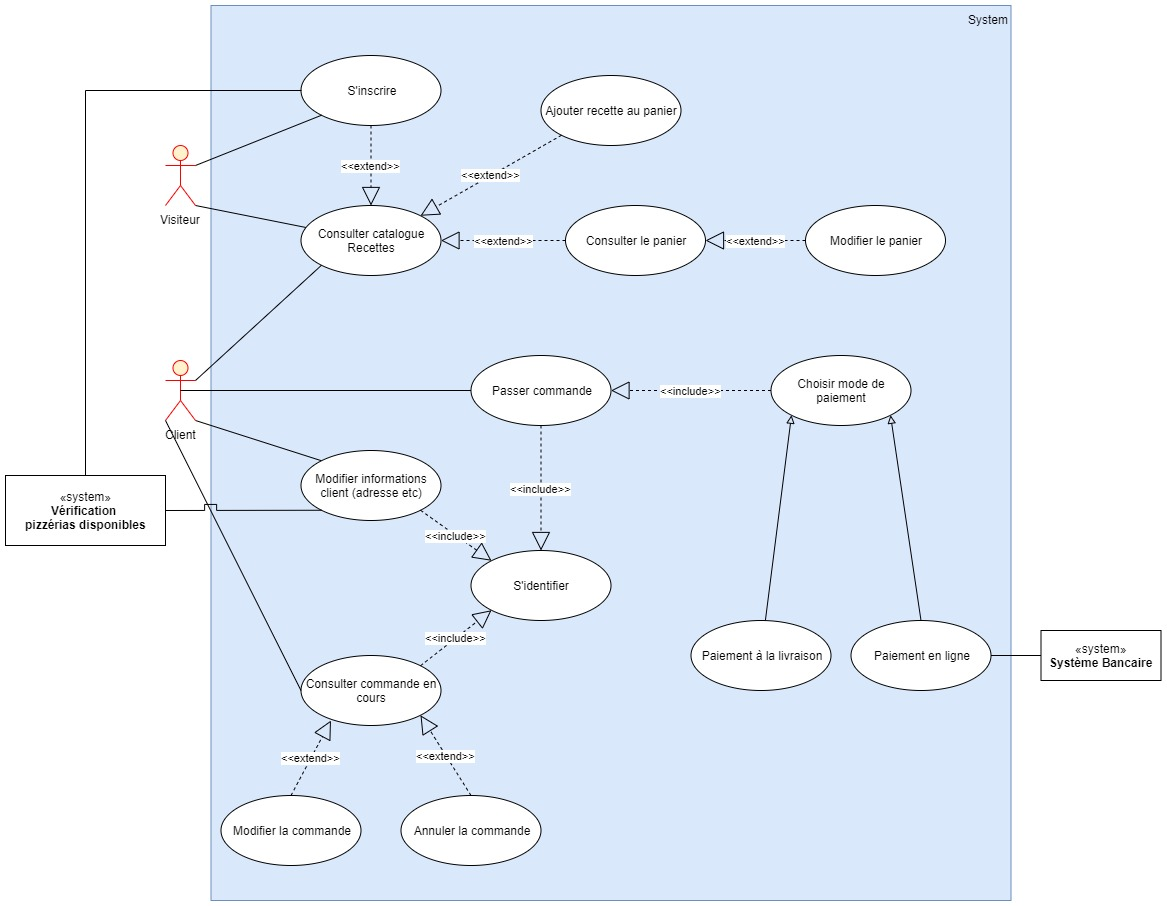
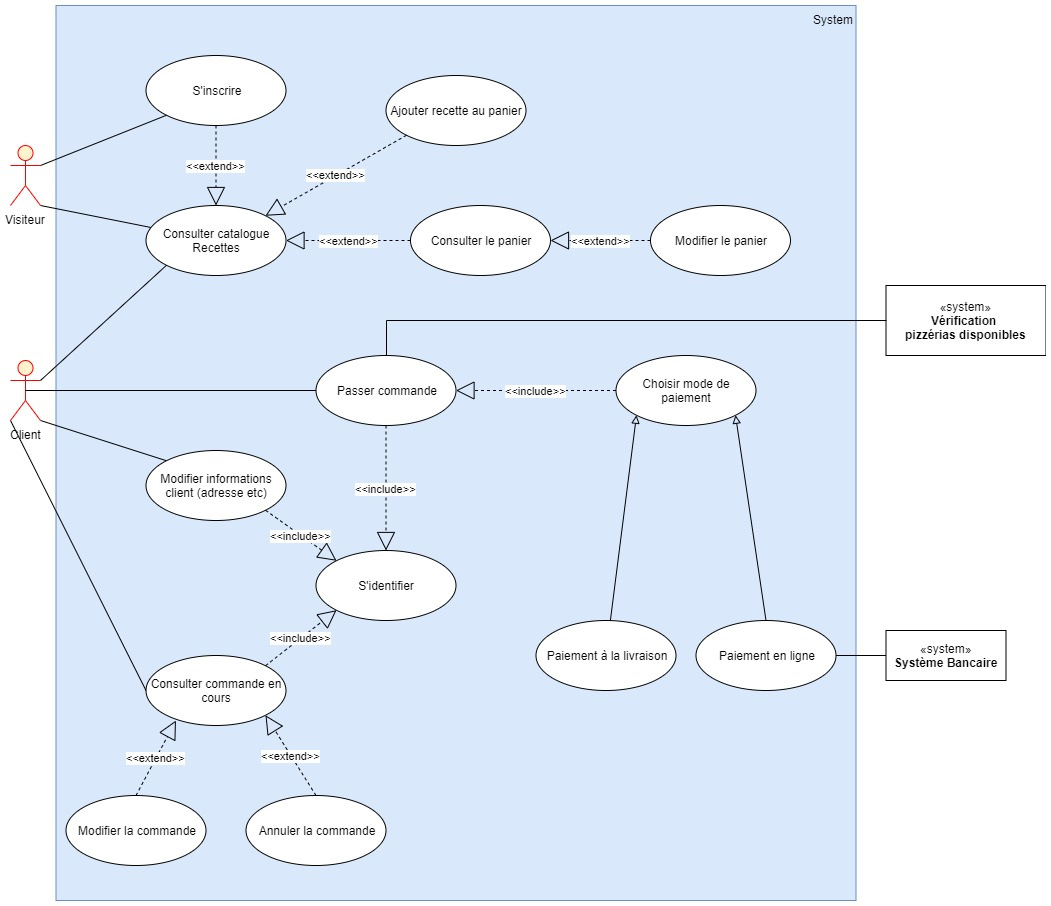
finalisation fiches, maj diagrammes

diff --git a/Diagrammes/Package Client/27_Verifier Adresse Livraison.md b/Diagrammes/Package Client/27_Verifier Adresse Livraison.md
@@ -1,0 +1,29 @@
+# Cas  n°27
+
+**Nom:** Vérifier l'adresse de livraison (package « Client »)<br>
+**Acteurs(s):** Système<br>
+**Description succincte:** Lors de l'entrée d'une adresse de livraison d'une commande par un client, le système doit valider la disponibilité d'une pizzéria à proximité afin de pouvoir effectuer une livraison<br>
+**Auteur:** A Gomes<br>
+**Date(s):** 01/01/2020 (première rédaction)<br>
+**Pré-conditions:** L'utilisateur a sélectionné "Livraison" lors d'une commande<br>
+**Démarrage:** L'utilisateur a entré une adresse de livraison<br>
+
+### **DESCRIPTION**
+
+**Le scénario nominal**<br>
+1. Le système récupère et vérifie l'existance de l'adresse entrée par l'utilisateur
+2. Le système vérifie la présence d'une pizzéria à proximité de l'adresse de livraison (selon une distance à définir)
+3. Le système retourne les informations de la pizzéria disponible à l'utilisateur
+
+**Les scénarios alternatifs**<br>
+En (2): Si il n'y a aucune pizzéria disponible, renvoit de l'information "Adresse indisponible à la livraison"
+
+**Scénario d'exception**<br>
+En (1): L'adresse de l'utilisateur est inexistente, le système renvoit un message à l'utilisateur pour le prévenir
+
+**Fin:** 
+- Scénario nominal: à l'étape 3, sur décision de l'utilisateur
+- Scénario alternatif: à l'étape 2, sur décision de l'utilisateur
+
+**Post-conditions:** 
+- Aucune

diff --git a/Diagrammes/26_Se Connecter.md b/Diagrammes/26_Se Connecter.md
@@ -1,0 +1,30 @@
+# Cas  n°26
+
+**Nom:** S'identifier<br>
+**Acteurs(s):** N'importe quel utilisateur disposant d'un compte<br>
+**Description succincte:** L'identification doit être possible pour l'utilisateur<br>
+**Auteur:** A Gomes<br>
+**Date(s):** 01/01/2020 (première rédaction)<br>
+**Pré-conditions:** L'utilisateur s'est connecté au site<br>
+**Démarrage:** L’utilisateur a demandé l'identification à son compte du site<br>
+
+### **DESCRIPTION**
+
+**Le scénario nominal**<br>
+1. Le système demande le nom et le mot de passe de l'utilisateur
+2. L'utilisateur remplis les informations de connexion
+3. L'utilisateur valide les information
+4. Le système vérifie les informations
+5. Le système connecte l'utilisateur et affiche la page d'accueil du site
+
+**Les scénarios alternatifs**<br>
+1.  En (2): L'utilisateur annule la connexion et quitte l'écran
+
+**Scénario d'exception**<br>
+En (4): Lors de la validation, si les informations entrées par l'utilisateur sont erronées (compte inexistant ou mot de passe incorrect), le système redirige vers l'étape (1)
+
+**Fin:** 
+- Scénario nominal: à l'étape 5, sur décision de l'utilisateur
+- Scénario alternatif: à l'étape 2 sur décision de l'utilisateur
+
+**Post-conditions:** L'utilisateur est connecté et a accès à son compte

diff --git a/Avancement.md b/Avancement.md
@@ -17,7 +17,7 @@
     - [x] Consulter Bilan d'activité Global
     - [x] Consulter les informations individuelles d'un restaurant
 - Client
-    - [] S'incrire
+    - [x] S'incrire
     - [x] Modifier informations client
     - [x] Consulter Catalogue des recettes
     - [x] Ajouter une recette au panier
@@ -28,12 +28,15 @@
     - [x] Effectuer le paiement d'une commande
     - [x] Modifier Panier
     - [x] Consulter panier
-
+    - [x] Vérification Adresse Livraison
+- Global
+    - [x] S'identifier
+    
 ## Cycle de vie des commandes
-    - [En cours] Client
-    - [En cours] Livreur
-    - [] Pizzéria
-    - [] Equipe Nationale
+- [x] Client
+- [x] Livreur
+- [x] Pizzéria
+- [] Equipe Nationale
     
 # A venir
  - [] Document PDF de specs fonctionnelles
